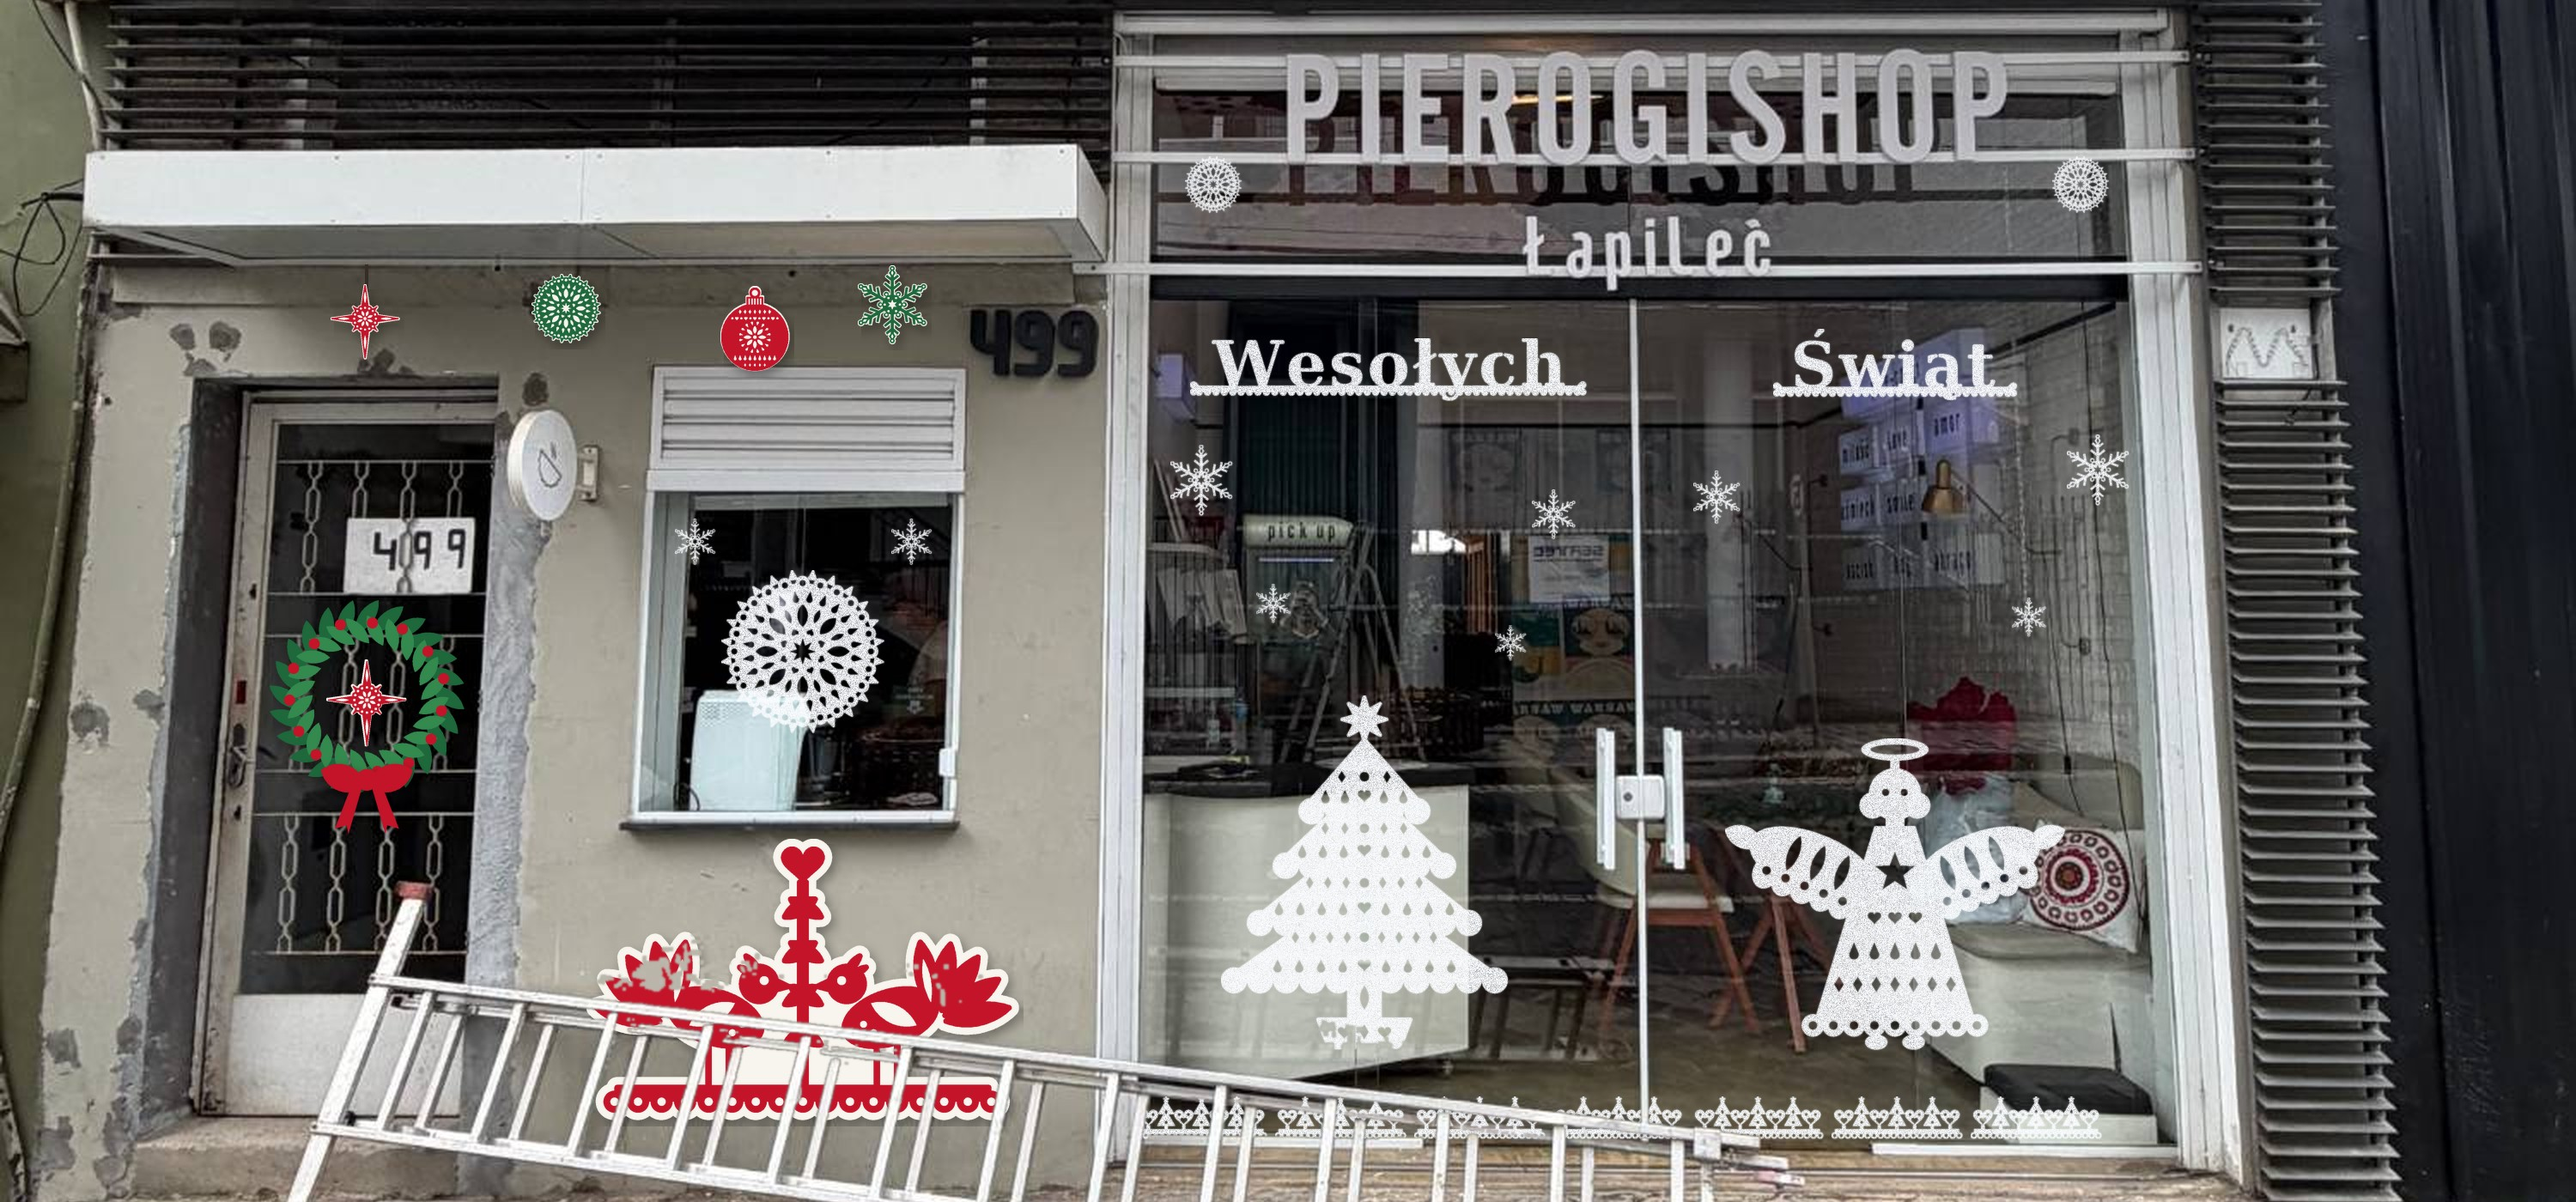
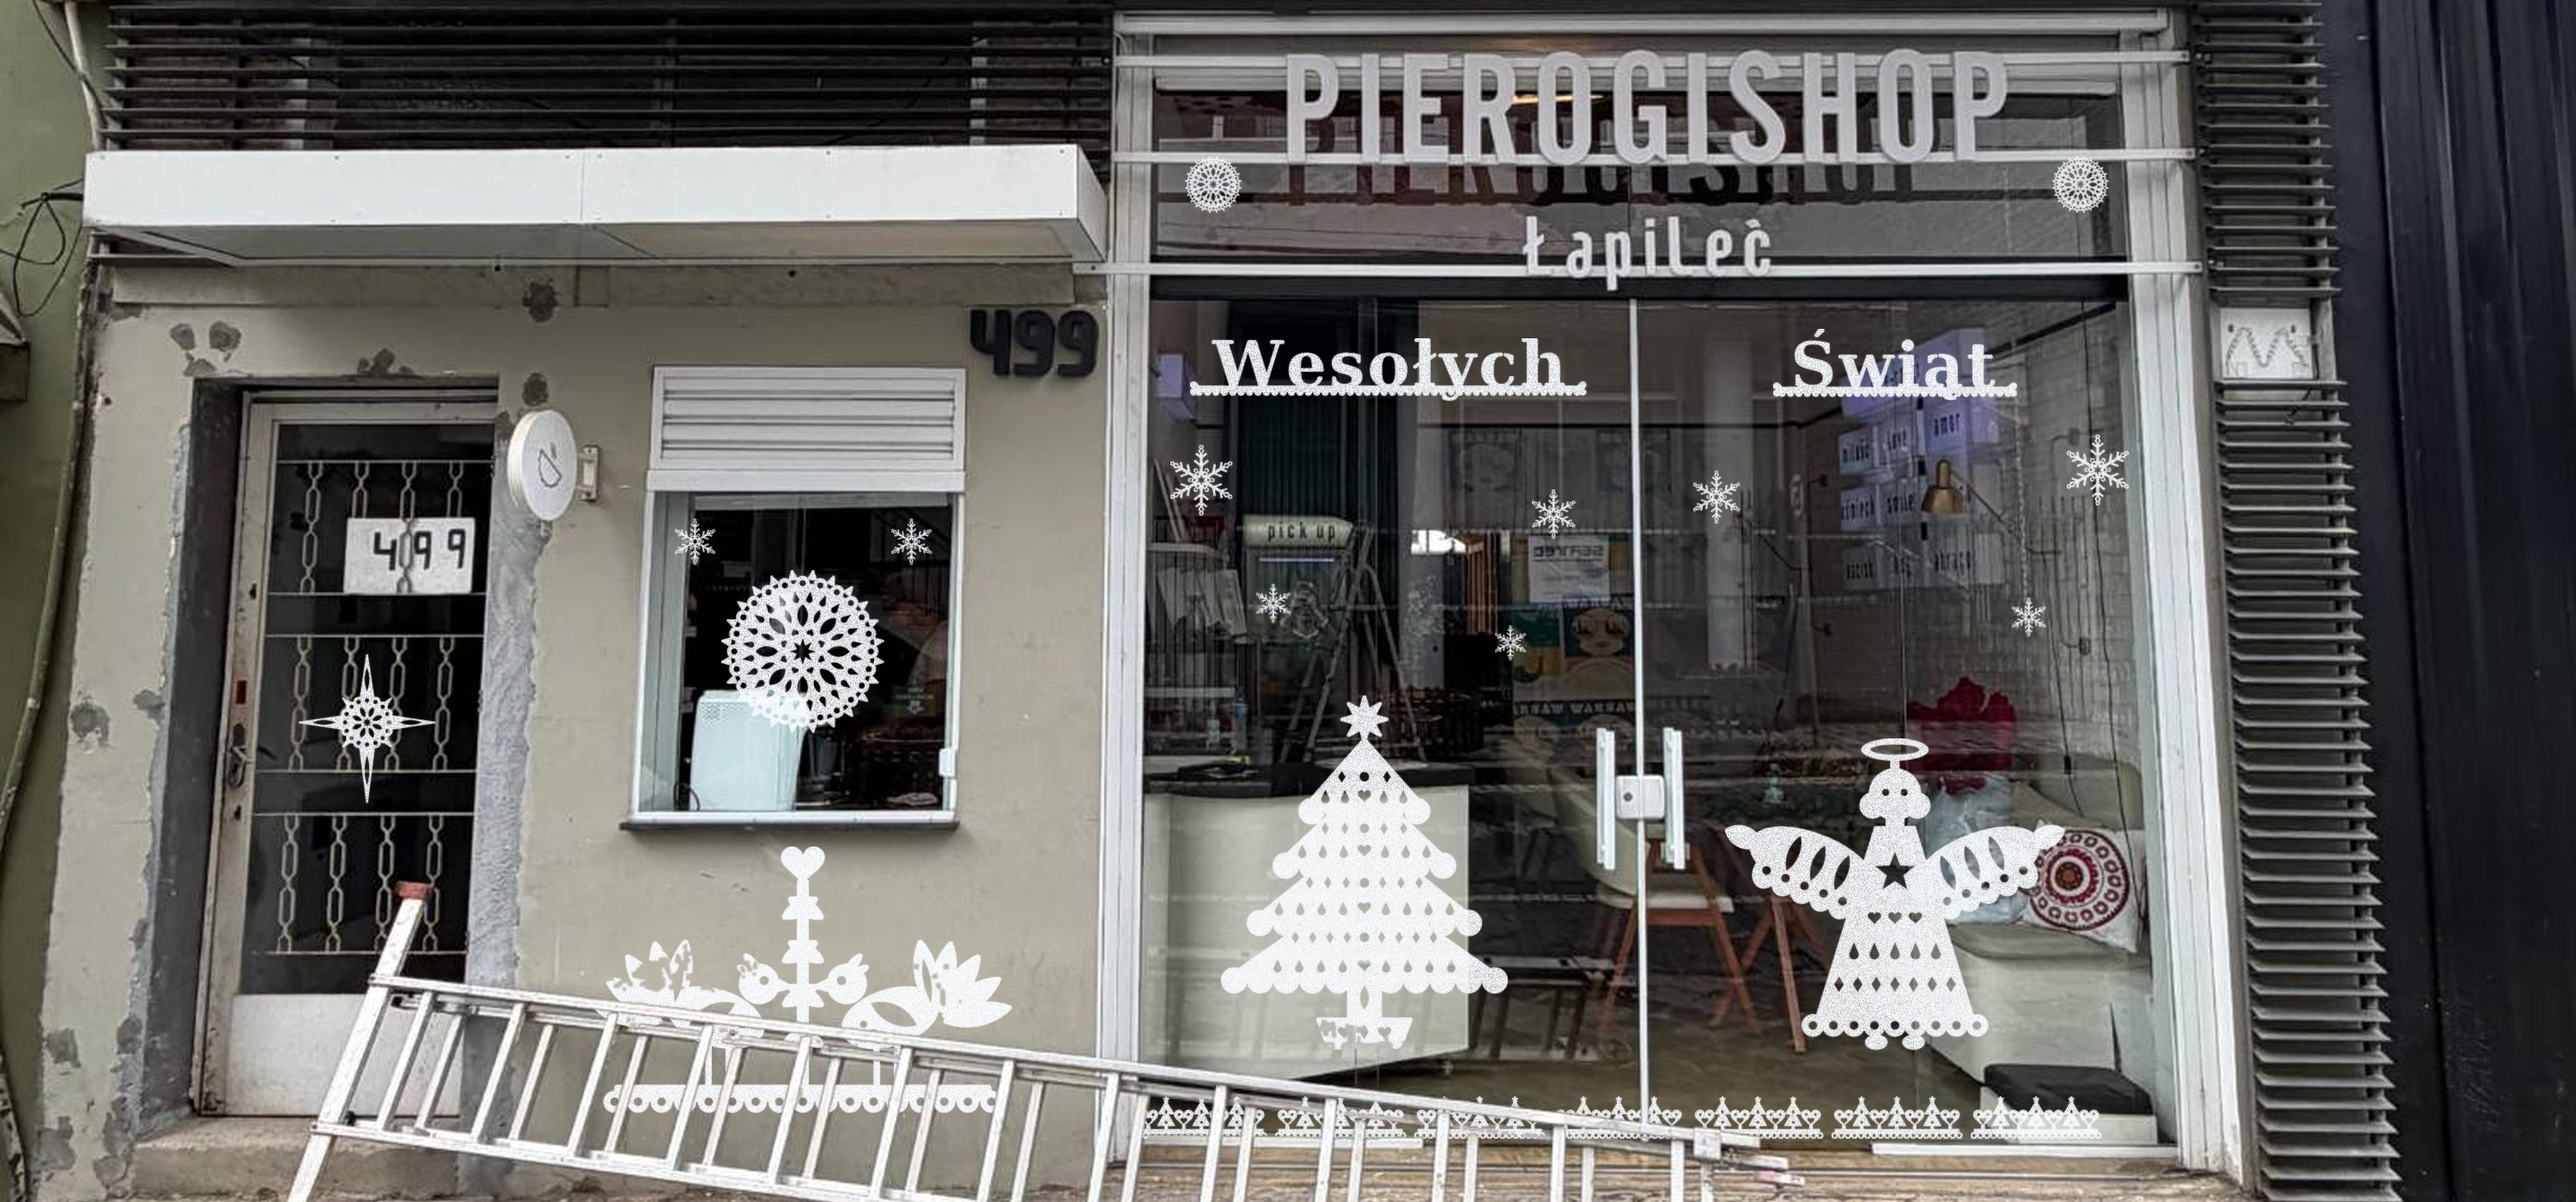
Simulação da fachada só com os desenhos do PDF
Claude-Session: https://claude.ai/code/session_01V7jCoYv5czbf2JWP4Z39nr

diff --git a/wycinanki-natal/simular_foto.py b/wycinanki-natal/simular_foto.py
@@ -1,6 +1,5 @@
 """Simulação da decoração de Natal sobre a FOTO real da fachada da PierogiShop.
-Vidro: neve spray com os stencils. Parede/janela/porta: wycinanki coloridos (vinil ou papel)
-e guirlanda. Escala da foto ≈ 2,06 px/cm (porta lateral ≈ 80 cm = 165 px)."""
+Usa somente os desenhos do PDF, todos aplicados com spray branco pelo método do stencil. Escala da foto ≈ 2,06 px/cm (porta lateral ≈ 80 cm = 165 px)."""
 import sys, io, contextlib, math
 import numpy as np
 from PIL import Image, ImageDraw, ImageFilter
@@ -102,52 +101,11 @@ put(mask(G["rozeta"], W=cm(46)), 468, cy=1140)
 for (x, y) in [(405, 1076), (531, 1076)]:
     put(mask(G["sniezynka"], H=cm(13)), x, cy=y)
 
-# =================== PAREDE (wycinanki coloridos, 2 camadas) ===================
-duas_camadas(G["ptaszki"], cm(118), 468, top=1253, cor=VERM, fundo=BRANCO)
-
-# enfeites pendurados sob a marquise (barbante + wycinanka dupla face)
-d = ImageDraw.Draw(img)
-for (x, yb, k, cor) in [(213, 948, "betlejemska", VERM), (330, 940, "rozeta", VERDE), (440, 952, "bombka", VERM), (520, 938, "sniezynka", VERDE)]:
-    d.line((x * SS, 914 * SS, x * SS, (yb - 18) * SS), fill=(55, 45, 40), width=2 * SS)
-    duas_camadas(G[k], cm(19), x, cy=yb, cor=cor, fundo=BRANCO, borda=4)
-
-# =================== PORTA DE GRADE: guirlanda (wieniec) com wycinanka ===================
-def wieniec():
-    R = 230
-    folhas_a = U(*[af.rotate(leaf(0, -R - 10, 120, 44), a + 12, origin=(0, -R - 10)).__class__ and
-                   af.rotate(af.rotate(leaf(0, -R - 10, 120, 44), 35, origin=(0, -R - 10)), a, origin=(0, 0)) for a in range(0, 360, 15)])
-    folhas_b = U(*[af.rotate(af.rotate(leaf(0, -R + 30, 100, 38), -35, origin=(0, -R + 30)), a + 7, origin=(0, 0)) for a in range(0, 360, 15)])
-    bagas = U(*[C((R + 5 * ((i % 3) - 1)) * math.cos(math.radians(a)), (R - 8 * (i % 2)) * math.sin(math.radians(a)), 16)
-                for i, a in enumerate(range(10, 370, 24))])
-    laco = U(mir(af.rotate(leaf(70, R + 10, 140, 80), 70, origin=(70, R + 10))),
-             mir(Polygon([(10, R + 20), (40, R + 20), (95, R + 160), (60, R + 150), (55, R + 175)])), C(0, R + 15, 32))
-    return folhas_a, folhas_b, bagas, laco
-fa, fb, bg, lc = wieniec()
-tot = unary_union([fa, fb, bg, lc]); bx = tot.bounds
-k = cm(55) / (bx[2] - bx[0])
-def place(g, cor, sombra=False):
-    g2 = af.translate(af.scale(g, k, k, origin=(0, 0)), 0, 0)
-    m = mask(unary_union([g2, Polygon([(bx[0] * k, bx[1] * k), (bx[0] * k + 0.01, bx[1] * k)]).buffer(0.001)]), W=None, H=None) if False else None
-# rasteriza todas as camadas no mesmo quadro
-def raster(gs_cores, W, cx, cy):
-    global img
-    minx, miny, maxx, maxy = tot.bounds
-    kk = W / (maxx - minx) * SS
-    w, h = int((maxx - minx) * kk) + 2, int((maxy - miny) * kk) + 2
-    x0, y0 = int(cx * SS - w / 2), int(cy * SS - h / 2)
-    for g, cor, sh in gs_cores:
-        S = 3
-        im = Image.new("L", (w * S, h * S), 0); dd = ImageDraw.Draw(im)
-        polys = [g] if isinstance(g, Polygon) else list(g.geoms)
-        tr = lambda cs: [((x - minx) * kk * S, (y - miny) * kk * S) for x, y in cs]
-        for p in polys:
-            dd.polygon(tr(p.exterior.coords), fill=255)
-            for i in p.interiors: dd.polygon(tr(i.coords), fill=0)
-        m = im.resize((w, h), Image.LANCZOS)
-        put(m, (x0 + w / 2) / SS, cy=(y0 + h / 2) / SS, cor=cor, op=1, neve=False, sombra=sh)
-raster([(fa, VERDE, True), (fb, VERDE2, False), (bg, VERM, False), (lc, VERM, True)], cm(55), 214, 1178)
-# wycinanka branca/vermelha no centro da guirlanda
-duas_camadas(G["betlejemska"], cm(22), 214, cy=1170, cor=VERM, fundo=BRANCO, borda=4)
+# =================== PAREDE, JANELA E PORTA: só os desenhos do PDF ===================
+# parede sob a janela: Ptaszki pintado com o mesmo stencil (spray branco na parede)
+put(mask(G["ptaszki"], W=cm(118)), 468, top=1253, op=0.95)
+# vidro da porta de grade: Estrela de Belém em neve spray
+put(mask(G["betlejemska"], H=cm(42)), 214, cy=1185)
 
 # =================== devolve a escada para a frente ===================
 orig = np.asarray(foto.resize(img.size, Image.LANCZOS), float)
